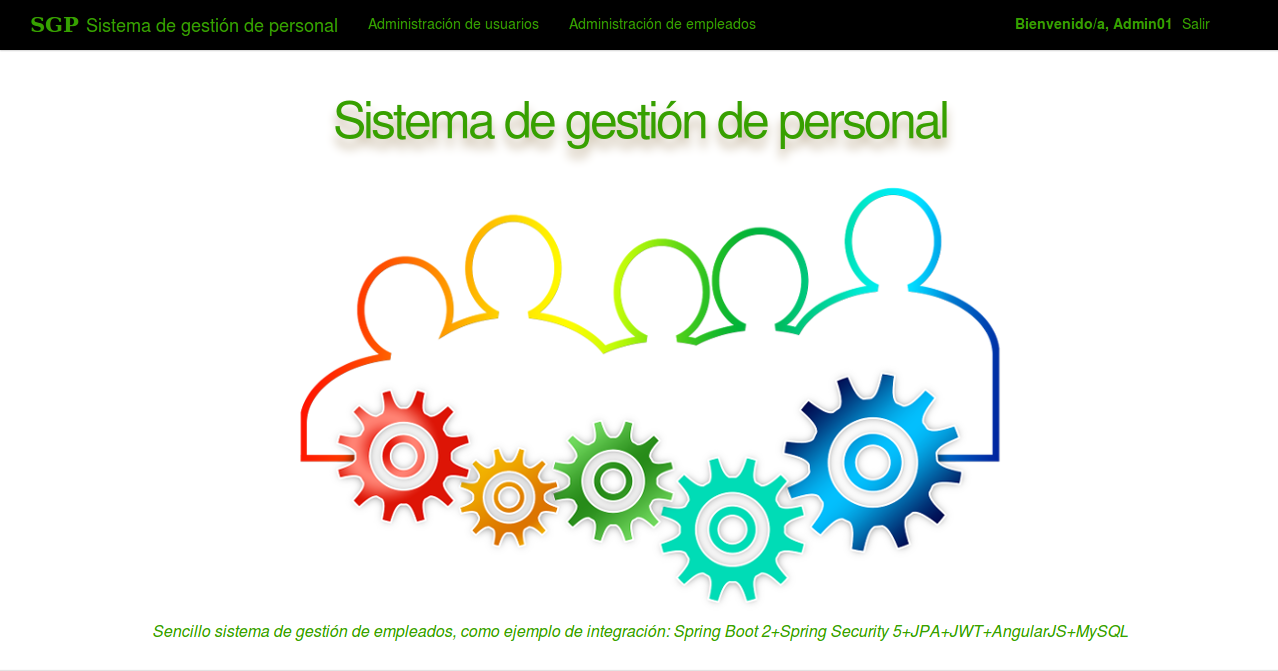
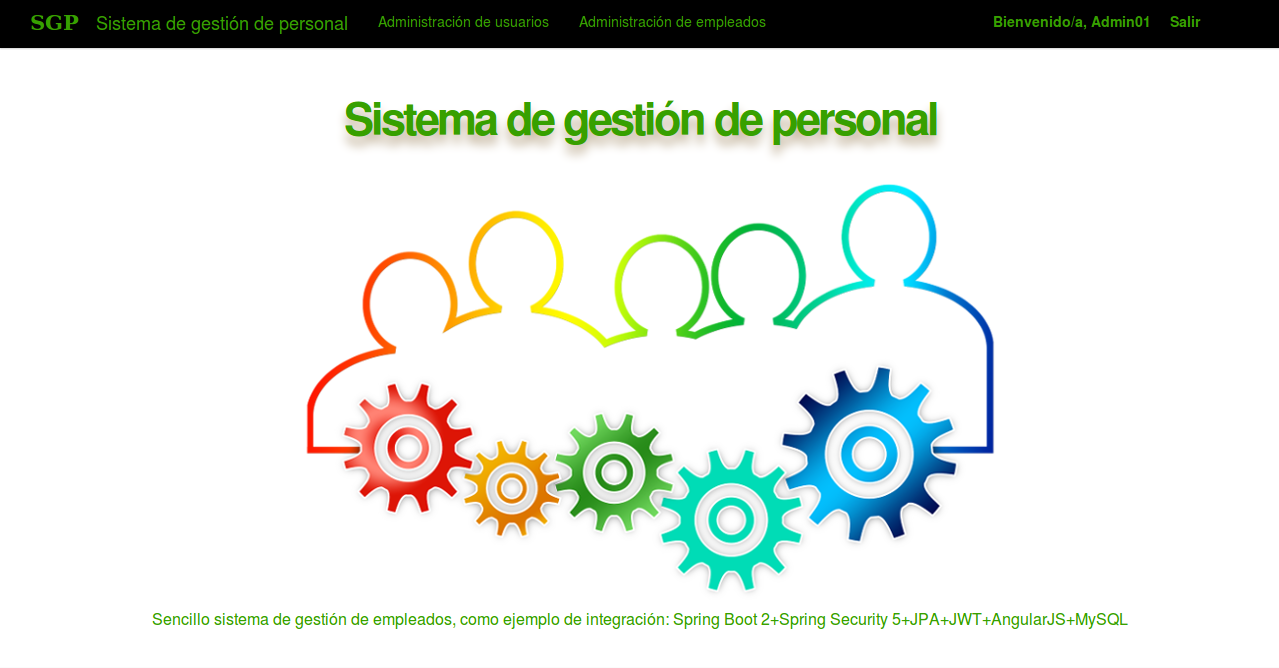
Modifying css

Changed region(s): [[0.1221, 0.2695, 0.885, 0.9581], [0.0, 0.0, 1.0, 0.0898], [0.2441, 0.1497, 0.7629, 0.2395]]

diff --git a/src/main/resources/static/app/views/employees.html b/src/main/resources/static/app/views/employees.html
@@ -1,26 +1,13 @@
-<style>
-
-.panel-heading{
-background-color: #37a000;
-color: #fff;
-}
-.btn{
-    color: #37a000;
-}
-          
-</style>
-
-
     <div class="generic-container">
     <div class="panel panel-default">
         <!-- Default panel contents -->
-        <div style="background-color: rgb(55, 160, 0); color: #fff;" class="panel-heading"><span style="font-size: 15px; font-weight: bold; margin-right:10px;"  class="lead">Empleado </span>
-        <button type="button" class="btn btn-default btn-sm"
+        <div class="panel-heading" id="custom"><span class="lead">Empleado </span>
+        <button type="button" id="custom01" class="btn btn-default btn-sm"
 					ng-click="initAddEmployee()"><span class="glyphicon glyphicon-refresh"></span> Limpiar formulario 
 	    </button>
         
         </div>
-		<div style="font-size: 10px;" class="panel-body">
+		<div class="panel-body">
 	        <div class="formcontainer">
 	            
 	            <form ng-submit="submit()" name="employeeForm" class="form-horizontal" novalidate>
@@ -161,7 +148,7 @@ color: #fff;
 
 	                <div class="row">
 	                    <div class="form-actions floatRight">
-	                        <button style="background-color: rgb(55, 160, 0); margin-left:10px; color: #fff;" type="submit" class="btn btn-default btn-sm"
+	                        <button type="submit" id="custom" class="btn btn-default btn-sm"
 							ng-disabled="employeeForm.$invalid">{{buttonText}}</button>	                        
 	                        <div class="alert alert-danger margin-top-5" ng-show="message">{{message}}</div>
 	                    </div>	                    
@@ -172,24 +159,21 @@ color: #fff;
     </div>
     <div class="panel panel-default">
         <!-- Default panel contents -->
-        <div style="background-color: rgb(55, 160, 0); color: #fff; font-weight: bold;" class="panel-heading"><span style="font-size: 15px; font-weight: bold; margin-right: 10px;" class="lead">Lista de empleados</span>
-        
-       
+        <div class="panel-heading" id="custom"><span class="lead">Lista de empleados</span>       
        
         <input type='text' ng-model='searchText'  class="search-query"  placeholder="Buscar empleado  &#x1F50E"  />
        
         </div>
                
-		<div class="panel-body">     
+		<div class="panel-body"> 		
 		
-		
-			<div style="font-size: 0.8em;" class="table-responsive">
+			<div id="customfont" class="table-responsive">
 			<div class="alert alert-info animated fadeOut margin-top-5" ng-show="delMsg">{{deleteMessage}}</div>
 		    <div class="alert alert-info animated fadeOut margin-top-5" ng-show="editMsg">{{editMessage}}</div> 
 		    <div class="alert alert-info animated fadeOut margin-top-5" ng-show="addMsg" >{{addMessage}}</div>  		        
 		        <table class="table table-hover">
 		            <thead>
-		            <tr style="font-size: 9px;">
+		            <tr class="custom-tr">		                
 		                <th>#</th>
 						<th>Nombre y apellidos</th>
 						<th>DNI</th>
@@ -202,13 +186,13 @@ color: #fff;
 						<th>Tipo de contrato</th>
 						<th>Inicio</th>
 						<th>Finalización</th>
-						<th>Salario</th>							
+						<th>Salario</th>													
 						<th></th>
 						<th></th>
 		            </tr>
 		            </thead>
 		            <tbody>
-		            <tr ng-repeat="user in users | filter:searchText">
+		            <tr id="custom-tr" ng-repeat="user in users | filter:searchText">
 		                    <td>{{$index+1}}</td>
 							<td>{{user.employee}}</td>
 							<td>{{user.dni}}</td>
@@ -223,14 +207,15 @@ color: #fff;
                             <td>{{user.end_date}}</td>
                             <td>{{user.salary}}</td>
                             							
-							<td><button type="button" class="btn btn-default btn-sm"
+							<td><button id="custom01" type="button" class="btn btn-outline-info btn-sm" 
 									ng-click="initEdit(user)">
-									<span class="glyphicon glyphicon-edit"></span>
-								</button></td>
+									<span id="custom-glyphicon" class="glyphicon glyphicon-edit"></span>
+								</button>
+							</td>
 							<td>
-								<button type="button" class="btn btn-default btn-sm"
+								<button id="custom01" type="button" class="btn btn-outline-info btn-sm"
 									ng-click="deleteEmployee(user)">
-									<span class="glyphicon glyphicon-trash"></span>
+									<span id="custom-glyphicon" class="glyphicon glyphicon-trash"></span>
 								</button>
 							</td>
 		            </tr>

diff --git a/src/main/resources/static/app/views/users.html b/src/main/resources/static/app/views/users.html
@@ -1,26 +1,14 @@
-<style>
-
-.panel-heading{
-background-color: #37a000;
-color: #fff;
-}
-.btn{
-    color: #37a000;
-}
-          
-</style>
-
 
     <div class="generic-container">
     <div class="panel panel-default">
         <!-- Default panel contents -->
-        <div style="background-color: rgb(55, 160, 0); color: #fff;" class="panel-heading"><span style="font-size: 15px; font-weight: bold; margin-right:10px;"  class="lead">Usuario </span>
-        <button type="button" class="btn btn-default btn-sm"
+        <div id="custom" class="panel-heading"><span class="lead">Usuario </span>
+        <button type="button" id="custom01" class="btn btn-default btn-sm"
 					ng-click="initAddUser()"><span class="glyphicon glyphicon-refresh"></span> Limpiar formulario 
 	    </button>
         
         </div>
-		<div style="font-size: 10px;" class="panel-body">
+		<div  class="panel-body">
 	        <div class="formcontainer">
 	            
 	            <form ng-submit="submit()" name="userForm" class="form-horizontal" novalidate>           
@@ -82,7 +70,7 @@ color: #fff;
 
 	                <div class="row">
 	                    <div class="form-actions floatRight">
-	                        <button style="background-color: rgb(55, 160, 0); margin-left:25px; color: #fff;" type="submit" class="btn btn-default btn-sm"
+	                        <button id="custom-users" type="submit" class="btn btn-default btn-sm"
 							ng-disabled="userForm.$invalid">{{buttonText}}</button>								                       
 	                        <div class="alert alert-danger margin-top-5" ng-show="message">{{message}}</div>
 	                        
@@ -91,13 +79,11 @@ color: #fff;
 	            </form>
     	    </div>
 		</div>	
-    </div>
-  
-    
+    </div>   
     
     <div class="panel panel-default">
         <!-- Default panel contents -->
-        <div style="background-color: rgb(55, 160, 0); color: #fff; font-weight: bold;" class="panel-heading"><span style="font-size: 15px; font-weight: bold; margin-right: 10px;" class="lead">Lista de usuarios </span>
+        <div id="custom" class="panel-heading"><span class="lead">Lista de usuarios </span>
         <input type='text' ng-model='searchText'  class="search-query"  placeholder="Buscar usuario  &#x1F50E"  /> 
                   
         </div>
@@ -108,32 +94,30 @@ color: #fff;
 		    <div class="alert alert-info animated fadeOut margin-top-5" ng-show="addMsg" >{{addMessage}}</div> 
 		        <table class="table table-hover">
 		            <thead>
-		            <tr>
+		            <tr class="custom-tr-users">		                
 		                <th>#</th>
 						<th>Nombre y apellidos</th>
 					    <th>Usuario</th>
-						<th>Rol</th>
+						<th>Rol</th>						
 						<th></th>
 						<th></th> 		                
 		            </tr>
 		            </thead>
 		            <tbody>
-		            <tr ng-repeat="user in users | filter:searchText">		                
+		            <tr class="custom-tr-users" ng-repeat="user in users | filter:searchText">		                
 						<td>{{$index+1}}</td>
 						<td>{{user.name}}</td>
 						<td>{{user.username}}</td>
-						<td><span ng-repeat="role in user.roles">{{role}}<span
+						<td><span class="roles" ng-repeat="role in user.roles">{{role}}<span
 									ng-if="$index < (user.roles.length-1)">,</span>
 							</span></td>				
-						<td><button type="button" class="btn btn-default btn-sm"
+						<td><button id="custom01" type="button" class="btn btn-outline-info btn-sm"
 									ng-click="initEdit(user)">
-									<span class="glyphicon glyphicon-edit"></span>
-					    </button>
-					    </td>
-						<td>
-						<button type="button" class="btn btn-default btn-sm"
+									<span id="custom-glyphicon" class="glyphicon glyphicon-edit"></span>
+					    </button>						
+						<button id="custom01" type="button" class="btn btn-outline-info btn-sm"
 									ng-click="deleteUser(user)">
-									<span class="glyphicon glyphicon-trash"></span>
+									<span id="custom-glyphicon" class="glyphicon glyphicon-trash"></span>
 						</button>
 						</td>
 		            </tr>

diff --git a/src/main/resources/static/app/views/css/styles.css b/src/main/resources/static/app/views/css/styles.css
@@ -1,0 +1,70 @@
+.panel-body{
+font-size: 10px;
+} 
+.panel-heading{
+background-color: #37a000;
+color: #fff;
+}
+.btn{
+    color: #37a000;
+}
+#register, .panel-heading{
+background-color: rgb(55, 160, 0);
+color: #fff;
+font-weight: bold;
+text-align: center;
+}
+#custom, .panel-heading{
+background-color: #37a000;
+color: #fff;
+text-align: left;
+
+}
+span, .lead{
+font-size: 15px;
+font-weight: bold;
+margin-right:10px;
+}
+span, .roles{
+font-size: 10px;
+font-weight: normal;
+margin-right:10px;
+}
+span, #custome-ghyphicon{
+font-size: 14px;
+font-weight: bold;
+margin-right:10px;
+}
+
+
+#custom01, .btn{
+background-color: #fff; 
+color: #37a000;
+margin-left: 10px;
+}
+#custom-users, .btn{
+background-color: rgb(55, 160, 0);
+margin-left:25px;
+ color: #fff;
+}
+#custom, .btn{
+background-color: #37a000;
+color: #fff;
+}
+#customfont, .table-responsive{
+font-size: 0.8em;
+}
+tr{
+font-size: 9px;
+}
+tr, #custom-tr{
+font-size: 9px;
+}
+tr, .custom-tr{
+font-size: 10px;
+}
+tr, .custom-tr-users{
+font-size: 11px;
+}
+
+

diff --git a/src/main/resources/static/app/views/login.html b/src/main/resources/static/app/views/login.html
@@ -14,8 +14,8 @@
             <input type="password" class="form-control" id="pwd" ng-model="password" placeholder="Introduzca contraseña" >
         </div>
         
-        <input type="submit" class="btn btn-primary btn-block btn-lg" value="Log in">
-        <input type="submit" class="btn btn-primary btn-block btn-lg" ui-sref="register" value="Registrarse">
+        <input type="submit"  class="btn btn-primary btn-block btn-lg" value="Log in">
+        <input type="submit"  class="btn btn-primary btn-block btn-lg" ui-sref="register" value="Registrarse">
         <div class="alert alert-info margin-top-5" ng-show="message">{{message}}</div>
                    
     </form>	

diff --git a/src/main/resources/static/app/views/css/login.css b/src/main/resources/static/app/views/css/login.css
@@ -37,7 +37,7 @@
     	margin-bottom: 15px;
         background: #fff;
 		border: 1px solid #f3f3f3;
-        box-shadow: 0px 2px 2px rgba(0, 0, 0, 0.3);
+        box-shadow: 0px 2px 2px rgba(0, 0, 0, 0.4);
         padding: 30px;
 	}
 .login-form h4 {
@@ -70,6 +70,9 @@
 		min-height: 40px;
 		border-radius: 2px; 
         transition: all 0.5s;
+        margin-left:auto;
+        margin-right:auto;      
+        
 }
 .login-form .close {
         position: absolute;
@@ -104,8 +107,8 @@
 }
 
 .div-trans {
-    padding:5px;
-    background-color: rgba(0, 255, 41, 0.25);
+padding:5px;
+background-color: rgba(0, 255, 41, 0.25);
 min-height: 350px;
 margin-top: 200px;
 color: #fff;

diff --git a/src/main/resources/static/app/views/home.html b/src/main/resources/static/app/views/home.html
@@ -1,28 +1,4 @@
-<style>
-.centered1{
-margin:-60px auto; 
-display: block;
-}
-.centered2{
-color: #37a000;
-font-size: 16px;
-font-style: italic;
-display: block;
-text-align: center;
-margin: 7px 0 0px 0;
-line-height: 1.6;
-}
-p span {
-display: block;
-margin: -18px 0 0px 0;
-font-size: 50px;
-line-height: 80px;
-color: #37a000;
-text-shadow: 0 9.36px 8.896px #c4b59d,0 -2px 1px #fff;
-letter-spacing: -3px;
- text-align: center;
-}
-</style>
+
 
 <p><span>Sistema de gestión de personal</span></p> 
 <img  class="centered1" src="app/views/images/SGP.png">

diff --git a/src/main/resources/static/index.html b/src/main/resources/static/index.html
@@ -14,6 +14,8 @@
 <link href="app/views/css/login.css" rel="stylesheet"></link>
 <link href="app/views/css/fade-out.css" rel="stylesheet"></link>
 <link href="app/views/css/search.css" rel="stylesheet"></link>
+<link href="app/views/css/styles.css" rel="stylesheet"></link>
+<link href="app/views/css/home.css" rel="stylesheet"></link>
 <link href="app/views/images/SGP.png" rel="stylesheet"></link>
 <link rel="shortcut icon" type="image/x-icon" href="app/views/images/favicon.ico">	      
 </head>

diff --git a/src/main/resources/static/app/views/css/home.css b/src/main/resources/static/app/views/css/home.css
@@ -1,0 +1,23 @@
+.centered1{
+margin:-60px auto; 
+display: block;
+}
+.centered2{
+color: #37a000;
+font-size: 16px;
+font-style: normal;
+display: block;
+text-align: center;
+margin: 7px 0 0px 0;
+line-height: 1.6;
+}
+p span {
+display: block;
+margin: -18px 0 0px 0;
+font-size: 45px;
+line-height: 80px;
+color: #37a000;
+text-shadow: 0 9.36px 8.896px #c4b59d,0 -2px 1px #fff;
+letter-spacing: -3px;
+ text-align: center;
+}

diff --git a/src/main/resources/static/app/views/register.html b/src/main/resources/static/app/views/register.html
@@ -11,7 +11,7 @@
 
 <div class=" col-md-6 col-md-offset-3">
 	<div class="panel panel-default">
-		<div style="background-color: rgb(55, 160, 0); color: #fff; font-weight: bold; text-align: center;" class="panel-heading">Registro</div>
+		<div id="register" class="panel-heading">Registro</div>
 		<div class="panel-body">
 			<div class="col-md-12">
 				<form ng-submit="submit()" name="register" novalidate>

diff --git a/src/main/resources/static/app/views/css/search.css b/src/main/resources/static/app/views/css/search.css
@@ -9,7 +9,7 @@
   height: 25px;
   border-radius: 5px;
   outline: none;
-  color: #727977;
+  color: #555753;
   font-size: 13px;
 }
 
